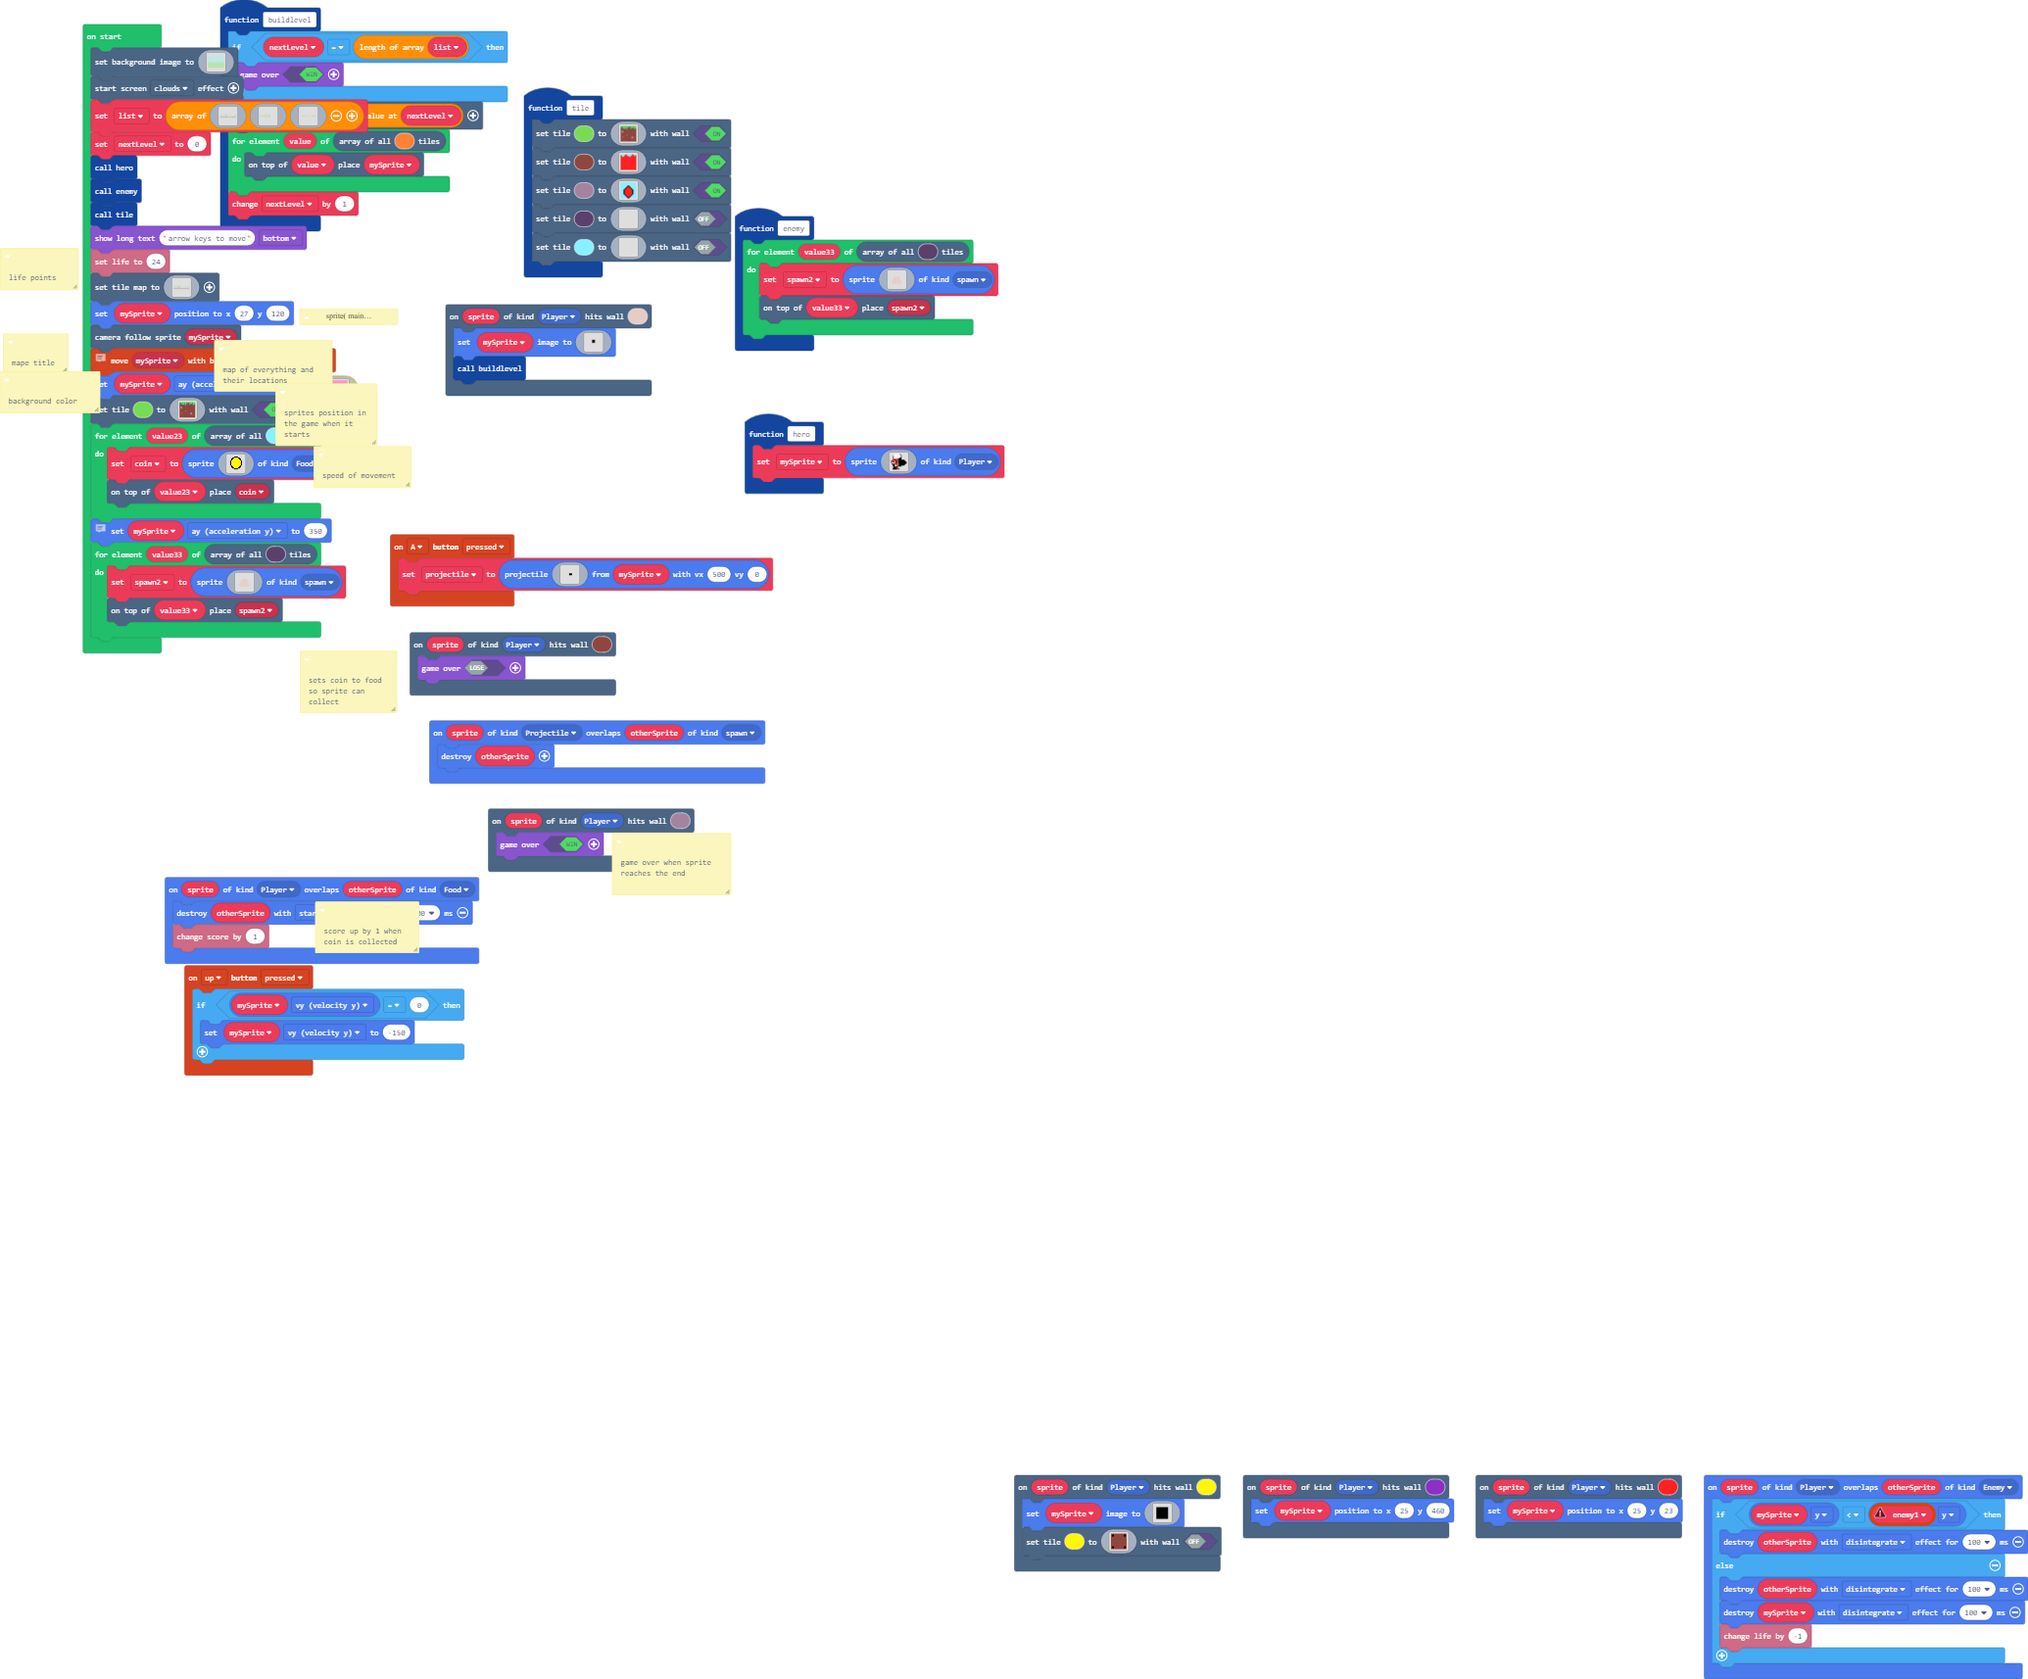
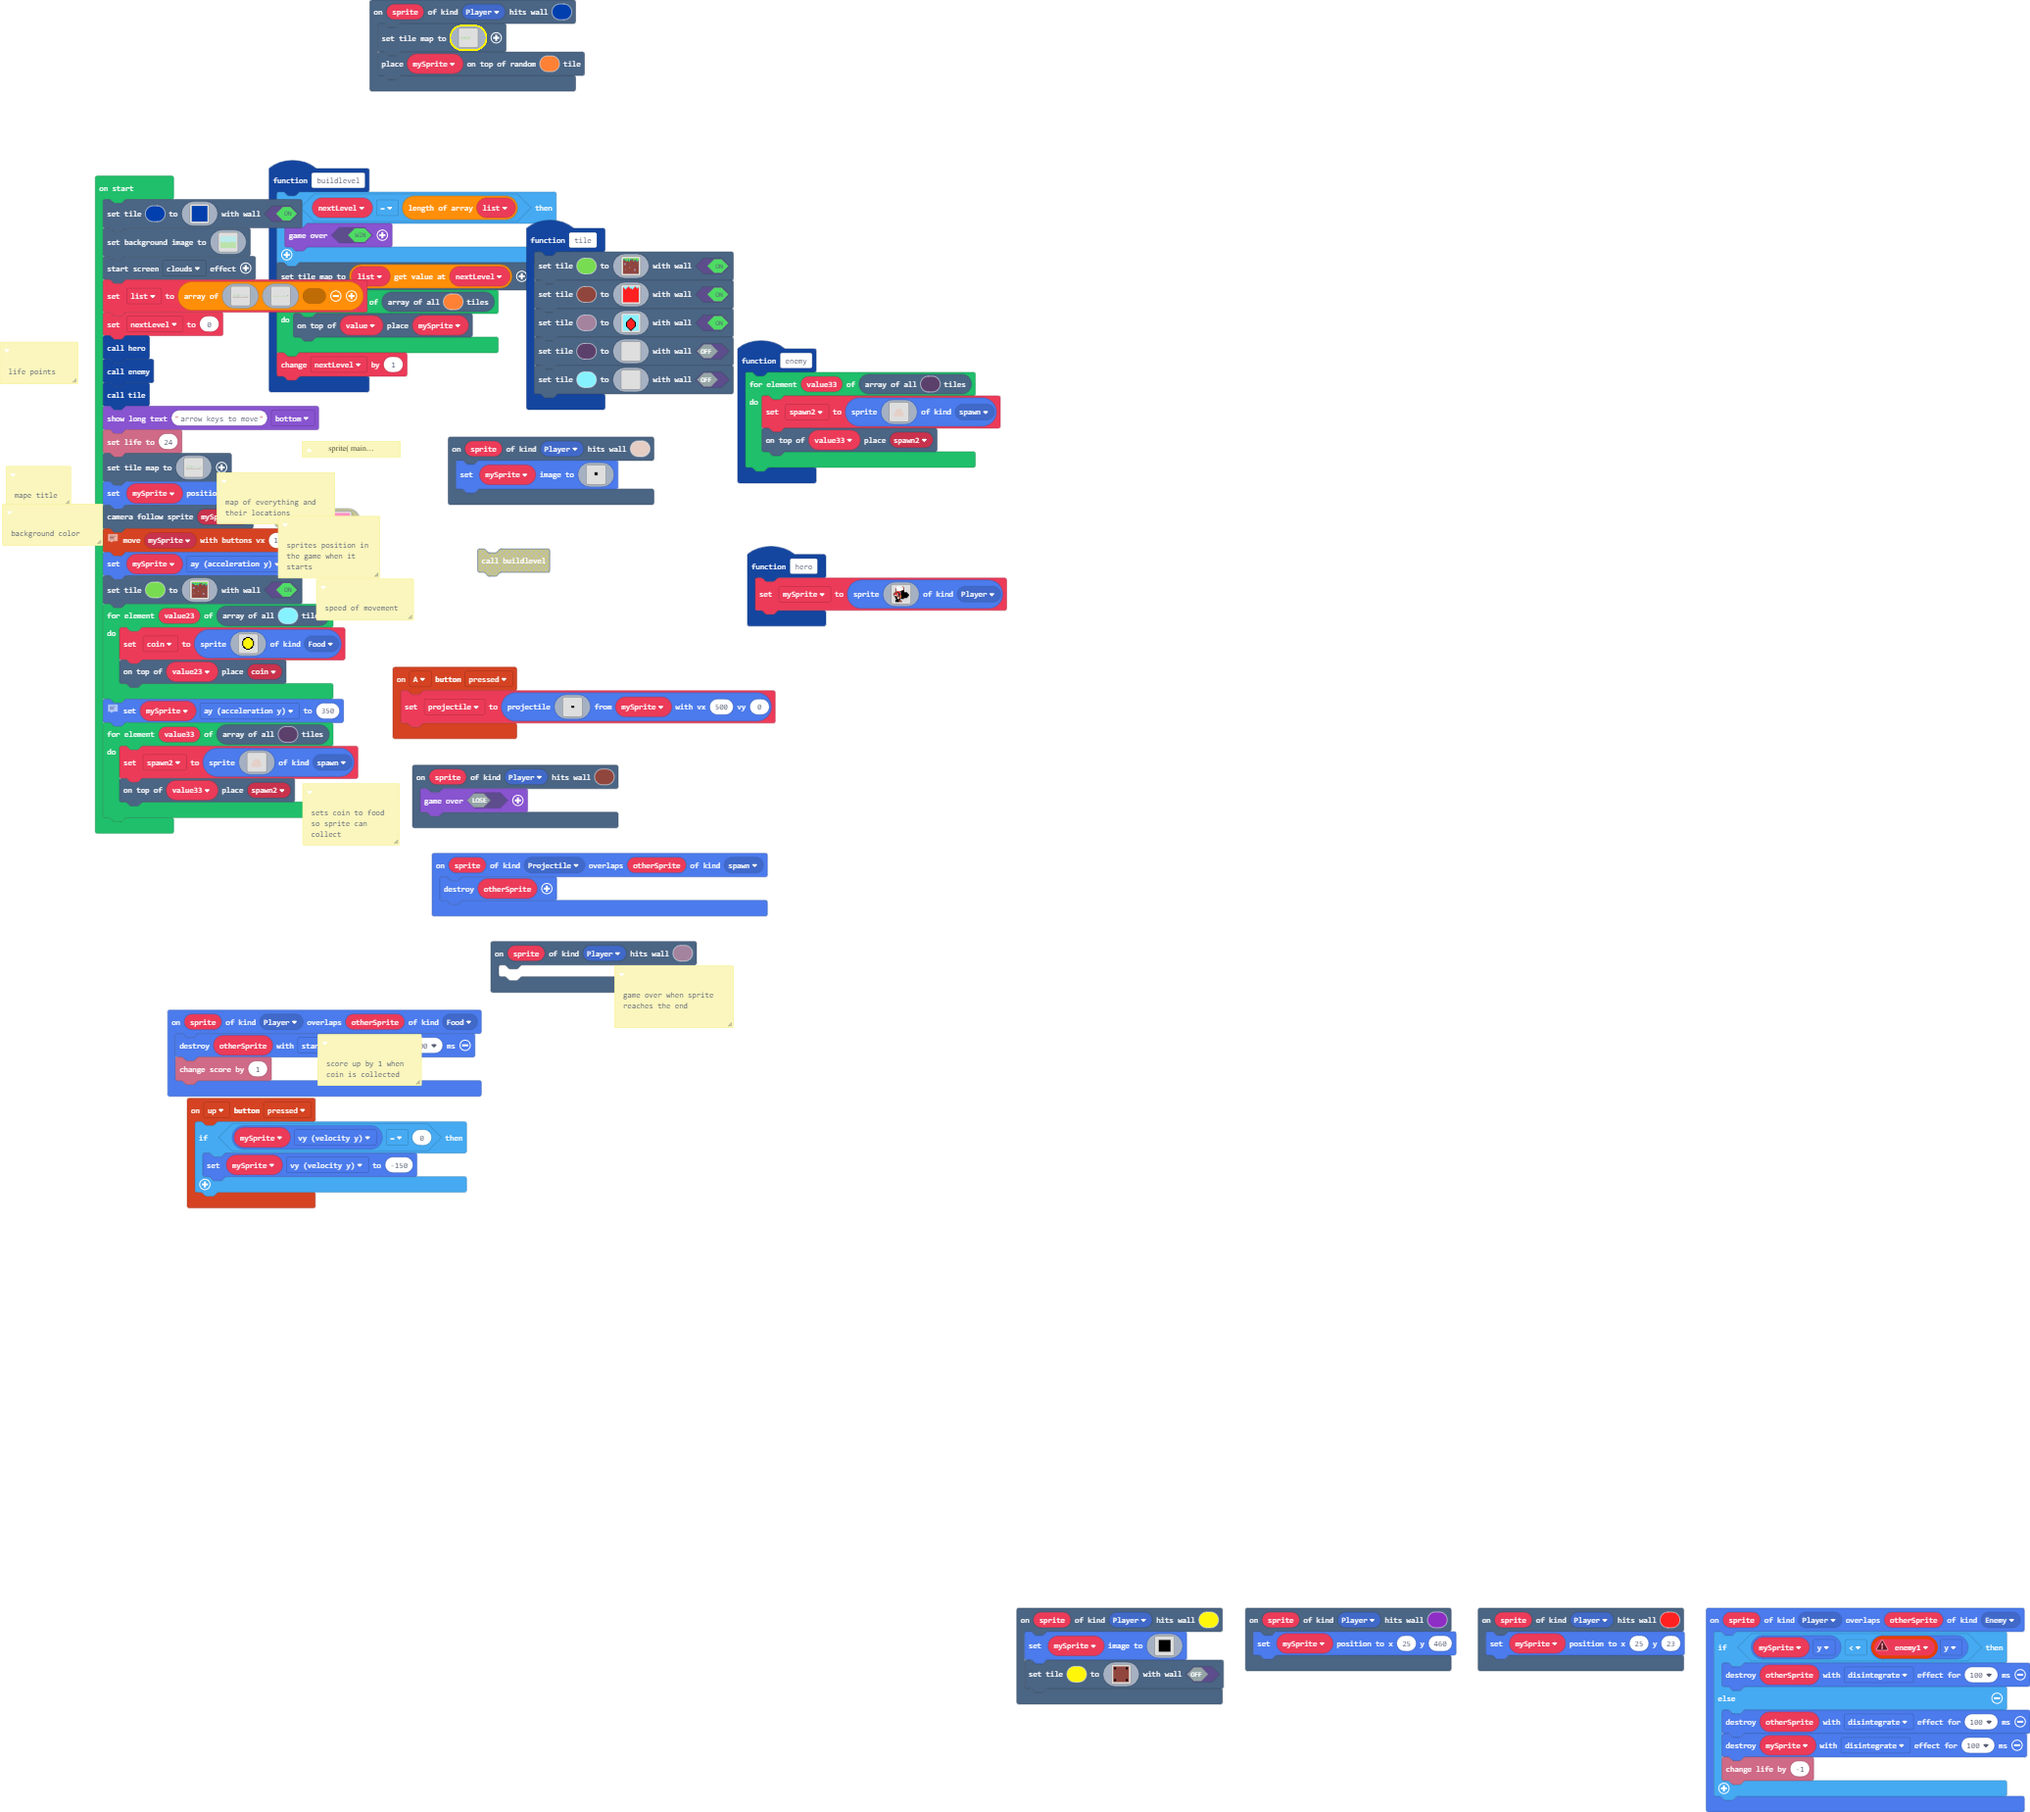
Update main.blocks, main.ts

Changed region(s): [[0.0, 0.0, 0.4947, 0.6803], [0.4947, 0.8658, 1.0, 0.9895]]

diff --git a/main.ts b/main.ts
@@ -2,6 +2,9 @@ namespace SpriteKind {
     export const spawn = SpriteKind.create()
 }
 /**
+ * life points
+ */
+/**
  * mape title
  */
 function buildlevel () {
@@ -49,7 +52,6 @@ scene.onHitTile(SpriteKind.Player, 13, function (sprite) {
 . . . . . . . . . . . . . . . . . . . . . . . . . . . . . . . . 
 . . . . . . . . . . . . . . . . . . . . . . . . . . . . . . . . 
 `)
-    buildlevel()
 })
 function hero () {
     mySprite = sprites.create(img`
@@ -75,7 +77,7 @@ b 1 1 d e e c 4 f f f f f f f f
  * game over when sprite reaches the end
  */
 scene.onHitTile(SpriteKind.Player, 11, function (sprite) {
-    game.over(true)
+	
 })
 scene.onHitTile(SpriteKind.Player, 14, function (sprite) {
     game.over(false)
@@ -178,6 +180,24 @@ e e e e e e e e e e e e e e c e
 sprites.onOverlap(SpriteKind.Player, SpriteKind.Food, function (sprite, otherSprite) {
     otherSprite.destroy(effects.starField, 100)
     info.changeScoreBy(1)
+})
+scene.onHitTile(SpriteKind.Player, 8, function (sprite) {
+    scene.setTileMap(img`
+. . . . . . . . . . . . . . . . . . . . . . . . . . . . . . . . . . . . . . . . . . . . . . . . . . . . . . . . . . . . 
+. . . . . . . . . . . . . . . . . . . . . . . . . . . . . . . . . . . . . . . . . . . . . . . . . . . . . . . . . . . . 
+. . . . . . . . . . . . . . . 7 7 . . . . . . . . . . . . . . . . . . . . . . . . . . . . . . . . . . . . . . . . . . . 
+. . . . . . . . . . . . 7 7 7 7 . . . . . . . . . . . . . . . . . 7 7 7 . . . . . . . . . . . . . . . . . . . . . . . . 
+. . . . . . . . . . 7 7 7 . . . . . . . . . . . 7 7 7 . . . . . 7 7 . 7 7 . . . . . . . . . . . . . . . . . . . . . . . 
+. . . . . 7 7 7 7 7 7 . . . . . . . 7 . . 7 . . 7 . 7 7 . . . . 7 . . . 7 . . . . . . . . . . . . . . . . . . . . . . . 
+. 4 . . 7 7 . . . . . . . . 7 8 7 7 7 . . 7 7 7 7 . . 7 . . . 7 7 . . . 7 . . . . . . . . . . . . . . . . . . . . . . . 
+. 7 . . 7 . . . . . . . . 7 . 7 . . . . . . 7 7 . . . 7 7 . 7 7 . . . 7 7 . . . . . . . . . . . . . . . . . . . . . . . 
+. 7 . . 7 . . . . . . . 7 . . 7 . . . . . . . . . . . . . 7 7 . . . 7 . 7 . . . . . . . . . . . . . . . . . . . . . . . 
+. 7 7 7 7 . . . . . . 7 . . . 7 . . . . . 7 . . . . . . . . . . . . . . 7 . . . . . . . . . . . . . . . . . . . . . . . 
+. . . . 7 7 7 7 7 7 7 7 7 7 7 7 7 7 7 . . . . 7 . . . . . . . . . 7 . . 7 . . . . . . . . . . . . . . . . . . . . . . . 
+. . . . . . . . . . . . . . . . . . 7 7 . . . . . 7 . . . . . . . . . 7 . . . . . . . . . . . . . . . . . . . . . . . . 
+. . . . . . . . . . . . . . . . . . . . 7 7 7 7 7 7 7 7 7 7 7 7 7 7 7 7 . . . . . . . . . . . . . . . . . . . . . . . . 
+`)
+    scene.placeOnRandomTile(mySprite, 4)
 })
 scene.onHitTile(SpriteKind.Player, 5, function (sprite) {
     mySprite.setImage(img`
@@ -293,9 +313,6 @@ controller.up.onEvent(ControllerButtonEvent.Pressed, function () {
     }
 })
 /**
- * life points
- */
-/**
  * sprite( main character)
  */
 /**
@@ -319,6 +336,24 @@ let coin: Sprite = null
 let mySprite: Sprite = null
 let nextLevel = 0
 let list: Image[] = []
+scene.setTile(8, img`
+8 8 8 8 8 8 8 8 8 8 8 8 8 8 8 8 
+8 8 8 8 8 8 8 8 8 8 8 8 8 8 8 8 
+8 8 8 8 8 8 8 8 8 8 8 8 8 8 8 8 
+8 8 8 8 8 8 8 8 8 8 8 8 8 8 8 8 
+8 8 8 8 8 8 8 8 8 8 8 8 8 8 8 8 
+8 8 8 8 8 8 8 8 8 8 8 8 8 8 8 8 
+8 8 8 8 8 8 8 8 8 8 8 8 8 8 8 8 
+8 8 8 8 8 8 8 8 8 8 8 8 8 8 8 8 
+8 8 8 8 8 8 8 8 8 8 8 8 8 8 8 8 
+8 8 8 8 8 8 8 8 8 8 8 8 8 8 8 8 
+8 8 8 8 8 8 8 8 8 8 8 8 8 8 8 8 
+8 8 8 8 8 8 8 8 8 8 8 8 8 8 8 8 
+8 8 8 8 8 8 8 8 8 8 8 8 8 8 8 8 
+8 8 8 8 8 8 8 8 8 8 8 8 8 8 8 8 
+8 8 8 8 8 8 8 8 8 8 8 8 8 8 8 8 
+8 8 8 8 8 8 8 8 8 8 8 8 8 8 8 8 
+`, true)
 scene.setBackgroundImage(img`
 9 9 9 9 9 9 9 9 9 9 9 9 9 9 9 9 9 9 9 9 9 9 9 9 9 9 9 9 9 9 9 9 9 9 9 9 9 9 9 9 9 9 9 9 9 9 9 9 9 9 9 9 9 9 9 9 9 9 9 9 9 9 9 9 9 9 9 9 9 9 9 9 9 9 9 9 9 9 9 9 9 9 9 9 9 9 9 9 9 9 9 9 9 9 9 9 9 9 9 9 9 9 9 9 9 9 9 9 9 9 9 9 9 9 9 9 9 9 9 9 9 9 9 9 9 9 9 9 9 9 9 9 9 9 9 9 9 9 9 9 9 9 9 9 9 9 9 9 9 9 9 9 9 9 9 9 9 9 9 9 
 9 9 9 9 9 9 9 9 9 9 9 9 9 9 9 9 9 9 9 9 9 9 9 9 9 9 9 9 9 9 9 9 9 9 9 9 9 9 9 9 9 9 9 9 9 9 9 9 9 9 9 9 9 9 9 9 9 9 9 9 9 9 9 9 9 9 9 9 9 9 9 9 9 9 9 9 9 9 9 9 9 9 9 9 9 9 9 9 9 9 9 9 9 9 9 9 9 9 9 9 9 9 9 9 9 9 9 9 9 9 9 9 9 9 9 9 9 9 9 9 9 9 9 9 9 9 9 9 9 9 9 9 9 9 9 9 9 9 9 9 9 9 9 9 9 9 9 9 9 9 9 9 9 9 9 9 9 9 9 9 
@@ -459,20 +494,6 @@ e e e e e e e e e e e e e e e e e e e e e e e e e e e e e e e e e e e e e e e e 
 `, img`
 . . . . . . . . . . . . . . . . . . . . . . . . . . . . . . . . . . . . . . . . . . . . . . . . . . . . . . . . . . . . 
 . . . . . . . . . . . . . . . . . . . . . . . . . . . . . . . . . . . . . . . . . . . . . . . . . . . . . . . . . . . . 
-. . . . . . . . . . . . . . . 7 7 . . 7 7 . . . . . . . . . . . . . . . . . . . . . . . . . . . . . . . . . . . . . . . 
-. . . . . . . . . . . . 7 7 7 7 . . 7 7 7 7 . . . . . . . . . . . 7 7 7 . . . . . . . . . . . . . . . . . . . . . . . . 
-. . . . . . . . . . 7 7 7 . . . . . 7 . . 7 . . 7 7 7 . . . . . 7 7 . 7 7 . . . . . . . . . . . . . . . . . . . . . . . 
-. . . . . 7 7 7 7 7 7 . . . . . . . 7 . . 7 . . 7 . 7 7 . . . . 7 . . . 7 . . . . . . . . . . . . . . . . . . . . . . . 
-. 4 . . 7 7 . . . . . . . . . 8 7 7 7 . . 7 7 7 7 . . 7 . . . 7 7 . . . 7 . . . . . . . . . . . . . . . . . . . . . . . 
-. 7 . . 7 . . . . . . . . . . 7 . . . . . . 7 7 . . . 7 7 . 7 7 . . . . 7 . . . . . . . . . . . . . . . . . . . . . . . 
-. 7 . . 7 . . . . . . . . . . 7 . . . . . . . . . . . . . 7 7 . . . . . 7 . . . . . . . . . . . . . . . . . . . . . . . 
-. 7 7 7 7 . . . . . . . . . . 7 . . . . . . . . . . . . . . . . . . . . 7 . . . . . . . . . . . . . . . . . . . . . . . 
-. . . . 7 7 7 7 7 7 7 7 7 7 7 7 7 7 7 . . . . . . . . . . . . . . . . . 7 . . . . . . . . . . . . . . . . . . . . . . . 
-. . . . . . . . . . . . . . . . . . 7 7 . . . . . . . . . . . . . . . 7 . . . . . . . . . . . . . . . . . . . . . . . . 
-. . . . . . . . . . . . . . . . . . . . 7 7 7 7 7 7 7 7 7 7 7 7 7 7 7 7 . . . . . . . . . . . . . . . . . . . . . . . . 
-`, img`
-. . . . . . . . . . . . . . . . . . . . . . . . . . . . . . . . . . . . . . . . . . . . . . . . . . . . . . . . . . . . 
-. . . . . . . . . . . . . . . . . . . . . . . . . . . . . . . . . . . . . . . . . . . . . . . . . . . . . . . . . . . . 
 . . . . . . . . . . . . . . . . . . . . . . . . . . . . . . . . . . . . . . . . . . . . . . . . . . . . . . . . . . . . 
 . . . . . . . . . . . . . . . . . . . . . . . . . . . . . . . . . . . . . . . . . . . . . . . . . . . . . . . . . . . . 
 . . . . . . . . . . . . . . . . . . . . . . . . . . . . . . . . . . . . . . . . . . . . . . . . . . . . . . . . . . . . 
@@ -495,9 +516,9 @@ scene.setTileMap(img`
 . . . . . . . . . . . . . . . . . . . . . . . . . . . . . . . . . . . . . . . . . . . . . . . . . . . . . . . . . . . . 
 . . . . . . . . . . . . . . . . . . . . . . . . . . . . . . . . . . . . . . . . . . . . . . . . . . . . . . . . . . . . 
 . . . . . . . . . . . 7 7 . 7 7 . 7 . 7 7 7 . 7 7 . 7 7 7 . . . . . . . . . . . . . . . . . . . . . . . . . . . . . . . 
-. . . . . . 7 7 . 7 . 7 . . . . . . . . . . . . . . . . . . . . . . . . . . . . . . . . . . . . . . . . . . . . . . b . 
-. . . . . 7 . . . . . . 9 . . . . . . c . . . . . 9 . . . . . . . 9 9 . . . . . . . . . . 9 9 9 . . . . . . . . . . b . 
-. . 5 . . 7 . . 9 . . . . . 9 . . 7 7 7 7 7 . . 7 7 7 . . . . . . . . . . . 9 . 7 9 9 9 7 . 9 . . . . . . . . 7 . . 7 . 
+. . . . . . 7 7 . 7 . 7 . . . . . . . . . . . . . . . . . . . . . . . . . . . . . . . . . . . . . . . . . . . . . . 8 . 
+. . . . . 7 . . . . . . 9 . . . . . . c . . . . . 9 . . . . . . . 9 9 . . . . . . . . . . 9 9 9 . . . . . . . . . . 8 . 
+. . 4 . . 7 . . 9 . . . . . 9 . . 7 7 7 7 7 . . 7 7 7 . . . . . . . . . . . 9 . 7 9 9 9 7 . 9 . . . . . . . . 7 . . 7 . 
 . . . . 7 . 9 . . . 7 . . . 7 . . . . . . . . . . . . . . . . . . . . c . . . . . 7 . 7 . . . . . . . . 7 . . . . . . . 
 . . . c . . 7 . . . . . . . . . . . . 9 9 . . . c . . 9 . . 7 . 7 . . 7 . . 7 . . . 7 . . . . . . 7 . . . . . . . . . . 
 . 7 7 7 . . . . . . . c . . . . . . . c c . . . 7 . . 7 . . . . . . . . . . . . . . . . . . 7 . . . . . . . 7 . c . 7 . 
